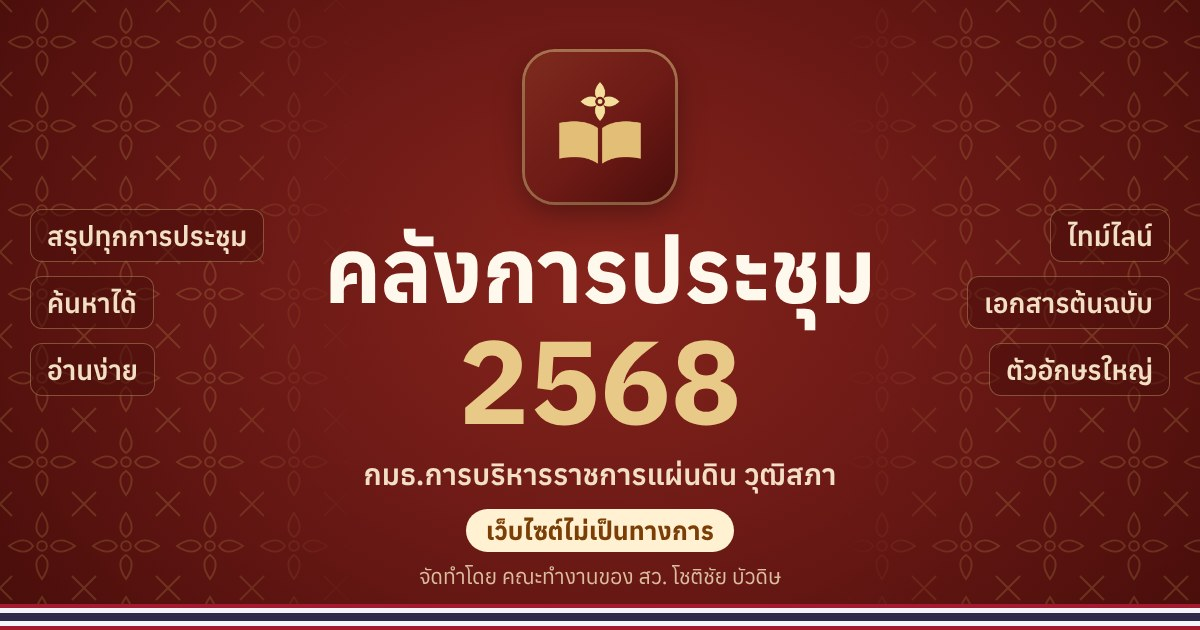
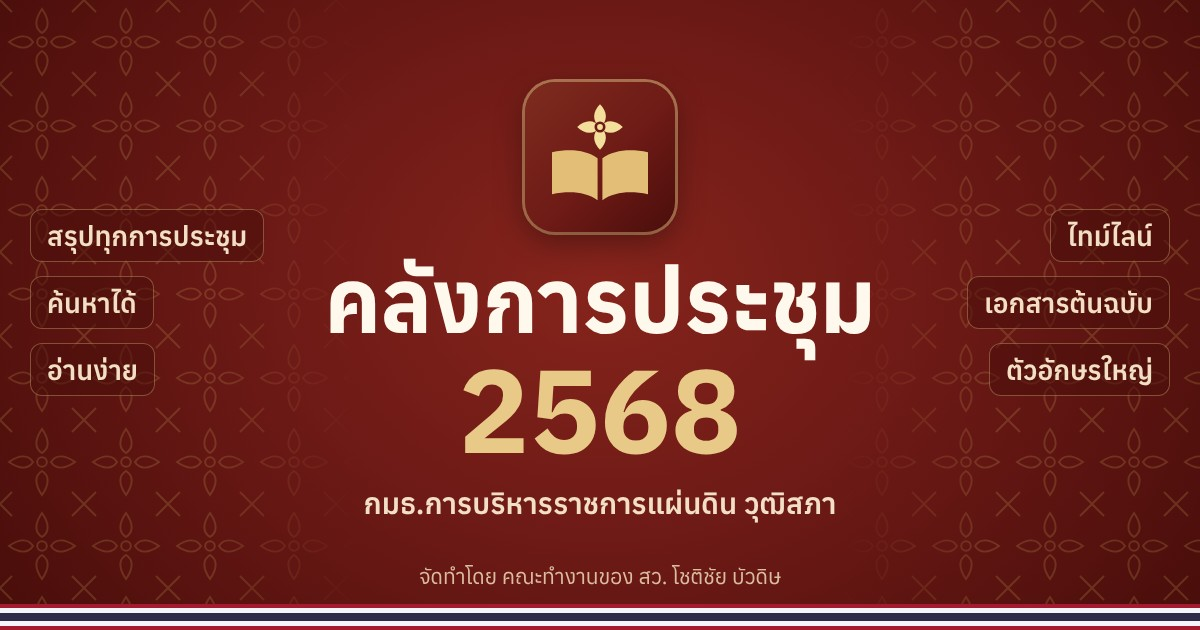
ภาพการ์ดแชร์ไม่มีป้าย "เว็บไซต์ไม่เป็นทางการ" (ข้อความยังอยู่ในคำอธิบายลิงก์และหน้าเว็บ) และเพิ่มโครงร่างระหว่างโหลดรายการ (skeleton loading)
Claude-Session: https://claude.ai/code/session_01CvQ3oQphdHGPik4UMzbU6Y

Changed region(s): [[0.2775, 0.0905, 0.74, 0.8746], [0.4625, 0.0603, 0.555, 0.0905]]

diff --git a/index.html b/index.html
@@ -794,6 +794,27 @@ footer .footer-credit b{color:#FFFFFF}
 </style>
 
 
+<!--SKEL-->
+<style id="skel-layer">
+.sk-wrap{display:grid;gap:16px;opacity:0;animation:sk-in .3s ease .35s forwards}
+.sk-card{background:var(--paper,#fff);border:1px solid var(--line,#e4d9c7);border-radius:18px;padding:18px;display:grid;gap:12px;
+  box-shadow:0 1px 2px rgba(60,20,10,.05),0 10px 26px -18px rgba(60,20,10,.18)}
+.sk-b{display:block;height:1.05em;border-radius:10px;background:var(--ink,#22170f);opacity:.08;animation:sk-pulse 1.3s ease-in-out .35s infinite alternate}
+.sk-b.h{height:2.2em;border-radius:12px}
+.sk-b.t{height:1.5em;width:82%}
+.sk-b.s{width:58%}
+.sk-b.bt{height:3.1em;border-radius:16px;width:100%;margin-top:4px}
+.sk-row{display:flex;gap:12px;align-items:center}
+.sk-row .sk-b.av{flex:none;width:3.2em;height:3.2em;border-radius:50%}
+.sk-row .sk-b{flex:1}
+.sk-sr{position:absolute;width:1px;height:1px;overflow:hidden;clip:rect(0 0 0 0);white-space:nowrap}
+@keyframes sk-in{to{opacity:1}}
+@keyframes sk-pulse{from{opacity:.06}to{opacity:.13}}
+@media (prefers-reduced-motion:reduce){.sk-wrap{animation:none;opacity:1}.sk-b{animation:none}}
+@media print{.sk-wrap{display:none}}
+img[loading="lazy"][src$=".jpg"],img[loading="lazy"][src*=".jpg?"],img.bgp{background-color:rgba(127,112,100,.16)}
+</style>
+<noscript><style>.sk-wrap{display:none}</style></noscript>
 </head>
 <body>
 <svg width="0" height="0" style="position:absolute" aria-hidden="true">
@@ -934,7 +955,7 @@ footer .footer-credit b{color:#FFFFFF}
   </div>
  </section>
 
- <section class="wrap feed" id="feed" aria-label="รายการการประชุม"></section>
+ <section class="wrap feed" id="feed" aria-label="รายการการประชุม"><div class="sk-wrap" aria-hidden="true"><div class="sk-card"><span class="sk-b h"></span><span class="sk-b t"></span><div class="sk-row"><span class="sk-b av"></span><span class="sk-b s"></span></div><span class="sk-b"></span><span class="sk-b"></span><span class="sk-b s"></span><span class="sk-b bt"></span></div><div class="sk-card"><span class="sk-b h"></span><span class="sk-b t"></span><div class="sk-row"><span class="sk-b av"></span><span class="sk-b s"></span></div><span class="sk-b"></span><span class="sk-b"></span><span class="sk-b s"></span><span class="sk-b bt"></span></div><div class="sk-card"><span class="sk-b h"></span><span class="sk-b t"></span><div class="sk-row"><span class="sk-b av"></span><span class="sk-b s"></span></div><span class="sk-b"></span><span class="sk-b"></span><span class="sk-b s"></span><span class="sk-b bt"></span></div></div><span class="sk-sr">กำลังโหลดรายการการประชุม</span></section>
 </main>
 
 <footer>

diff --git a/sub-central.html b/sub-central.html
@@ -794,6 +794,27 @@ footer .footer-credit b{color:#FFFFFF}
 </style>
 
 
+<!--SKEL-->
+<style id="skel-layer">
+.sk-wrap{display:grid;gap:16px;opacity:0;animation:sk-in .3s ease .35s forwards}
+.sk-card{background:var(--paper,#fff);border:1px solid var(--line,#e4d9c7);border-radius:18px;padding:18px;display:grid;gap:12px;
+  box-shadow:0 1px 2px rgba(60,20,10,.05),0 10px 26px -18px rgba(60,20,10,.18)}
+.sk-b{display:block;height:1.05em;border-radius:10px;background:var(--ink,#22170f);opacity:.08;animation:sk-pulse 1.3s ease-in-out .35s infinite alternate}
+.sk-b.h{height:2.2em;border-radius:12px}
+.sk-b.t{height:1.5em;width:82%}
+.sk-b.s{width:58%}
+.sk-b.bt{height:3.1em;border-radius:16px;width:100%;margin-top:4px}
+.sk-row{display:flex;gap:12px;align-items:center}
+.sk-row .sk-b.av{flex:none;width:3.2em;height:3.2em;border-radius:50%}
+.sk-row .sk-b{flex:1}
+.sk-sr{position:absolute;width:1px;height:1px;overflow:hidden;clip:rect(0 0 0 0);white-space:nowrap}
+@keyframes sk-in{to{opacity:1}}
+@keyframes sk-pulse{from{opacity:.06}to{opacity:.13}}
+@media (prefers-reduced-motion:reduce){.sk-wrap{animation:none;opacity:1}.sk-b{animation:none}}
+@media print{.sk-wrap{display:none}}
+img[loading="lazy"][src$=".jpg"],img[loading="lazy"][src*=".jpg?"],img.bgp{background-color:rgba(127,112,100,.16)}
+</style>
+<noscript><style>.sk-wrap{display:none}</style></noscript>
 </head>
 <body>
 <svg width="0" height="0" style="position:absolute" aria-hidden="true">
@@ -934,7 +955,7 @@ footer .footer-credit b{color:#FFFFFF}
   </div>
  </section>
 
- <section class="wrap feed" id="feed" aria-label="รายการการประชุม"></section>
+ <section class="wrap feed" id="feed" aria-label="รายการการประชุม"><div class="sk-wrap" aria-hidden="true"><div class="sk-card"><span class="sk-b h"></span><span class="sk-b t"></span><div class="sk-row"><span class="sk-b av"></span><span class="sk-b s"></span></div><span class="sk-b"></span><span class="sk-b"></span><span class="sk-b s"></span><span class="sk-b bt"></span></div><div class="sk-card"><span class="sk-b h"></span><span class="sk-b t"></span><div class="sk-row"><span class="sk-b av"></span><span class="sk-b s"></span></div><span class="sk-b"></span><span class="sk-b"></span><span class="sk-b s"></span><span class="sk-b bt"></span></div><div class="sk-card"><span class="sk-b h"></span><span class="sk-b t"></span><div class="sk-row"><span class="sk-b av"></span><span class="sk-b s"></span></div><span class="sk-b"></span><span class="sk-b"></span><span class="sk-b s"></span><span class="sk-b bt"></span></div></div><span class="sk-sr">กำลังโหลดรายการการประชุม</span></section>
 </main>
 
 <footer>

diff --git a/sub-dev-old.html b/sub-dev-old.html
@@ -794,6 +794,27 @@ footer .footer-credit b{color:#FFFFFF}
 </style>
 
 
+<!--SKEL-->
+<style id="skel-layer">
+.sk-wrap{display:grid;gap:16px;opacity:0;animation:sk-in .3s ease .35s forwards}
+.sk-card{background:var(--paper,#fff);border:1px solid var(--line,#e4d9c7);border-radius:18px;padding:18px;display:grid;gap:12px;
+  box-shadow:0 1px 2px rgba(60,20,10,.05),0 10px 26px -18px rgba(60,20,10,.18)}
+.sk-b{display:block;height:1.05em;border-radius:10px;background:var(--ink,#22170f);opacity:.08;animation:sk-pulse 1.3s ease-in-out .35s infinite alternate}
+.sk-b.h{height:2.2em;border-radius:12px}
+.sk-b.t{height:1.5em;width:82%}
+.sk-b.s{width:58%}
+.sk-b.bt{height:3.1em;border-radius:16px;width:100%;margin-top:4px}
+.sk-row{display:flex;gap:12px;align-items:center}
+.sk-row .sk-b.av{flex:none;width:3.2em;height:3.2em;border-radius:50%}
+.sk-row .sk-b{flex:1}
+.sk-sr{position:absolute;width:1px;height:1px;overflow:hidden;clip:rect(0 0 0 0);white-space:nowrap}
+@keyframes sk-in{to{opacity:1}}
+@keyframes sk-pulse{from{opacity:.06}to{opacity:.13}}
+@media (prefers-reduced-motion:reduce){.sk-wrap{animation:none;opacity:1}.sk-b{animation:none}}
+@media print{.sk-wrap{display:none}}
+img[loading="lazy"][src$=".jpg"],img[loading="lazy"][src*=".jpg?"],img.bgp{background-color:rgba(127,112,100,.16)}
+</style>
+<noscript><style>.sk-wrap{display:none}</style></noscript>
 </head>
 <body>
 <svg width="0" height="0" style="position:absolute" aria-hidden="true">
@@ -934,7 +955,7 @@ footer .footer-credit b{color:#FFFFFF}
   </div>
  </section>
 
- <section class="wrap feed" id="feed" aria-label="รายการการประชุม"></section>
+ <section class="wrap feed" id="feed" aria-label="รายการการประชุม"><div class="sk-wrap" aria-hidden="true"><div class="sk-card"><span class="sk-b h"></span><span class="sk-b t"></span><div class="sk-row"><span class="sk-b av"></span><span class="sk-b s"></span></div><span class="sk-b"></span><span class="sk-b"></span><span class="sk-b s"></span><span class="sk-b bt"></span></div><div class="sk-card"><span class="sk-b h"></span><span class="sk-b t"></span><div class="sk-row"><span class="sk-b av"></span><span class="sk-b s"></span></div><span class="sk-b"></span><span class="sk-b"></span><span class="sk-b s"></span><span class="sk-b bt"></span></div><div class="sk-card"><span class="sk-b h"></span><span class="sk-b t"></span><div class="sk-row"><span class="sk-b av"></span><span class="sk-b s"></span></div><span class="sk-b"></span><span class="sk-b"></span><span class="sk-b s"></span><span class="sk-b bt"></span></div></div><span class="sk-sr">กำลังโหลดรายการการประชุม</span></section>
 </main>
 
 <footer>

diff --git a/sub-disaster-old.html b/sub-disaster-old.html
@@ -794,6 +794,27 @@ footer .footer-credit b{color:#FFFFFF}
 </style>
 
 
+<!--SKEL-->
+<style id="skel-layer">
+.sk-wrap{display:grid;gap:16px;opacity:0;animation:sk-in .3s ease .35s forwards}
+.sk-card{background:var(--paper,#fff);border:1px solid var(--line,#e4d9c7);border-radius:18px;padding:18px;display:grid;gap:12px;
+  box-shadow:0 1px 2px rgba(60,20,10,.05),0 10px 26px -18px rgba(60,20,10,.18)}
+.sk-b{display:block;height:1.05em;border-radius:10px;background:var(--ink,#22170f);opacity:.08;animation:sk-pulse 1.3s ease-in-out .35s infinite alternate}
+.sk-b.h{height:2.2em;border-radius:12px}
+.sk-b.t{height:1.5em;width:82%}
+.sk-b.s{width:58%}
+.sk-b.bt{height:3.1em;border-radius:16px;width:100%;margin-top:4px}
+.sk-row{display:flex;gap:12px;align-items:center}
+.sk-row .sk-b.av{flex:none;width:3.2em;height:3.2em;border-radius:50%}
+.sk-row .sk-b{flex:1}
+.sk-sr{position:absolute;width:1px;height:1px;overflow:hidden;clip:rect(0 0 0 0);white-space:nowrap}
+@keyframes sk-in{to{opacity:1}}
+@keyframes sk-pulse{from{opacity:.06}to{opacity:.13}}
+@media (prefers-reduced-motion:reduce){.sk-wrap{animation:none;opacity:1}.sk-b{animation:none}}
+@media print{.sk-wrap{display:none}}
+img[loading="lazy"][src$=".jpg"],img[loading="lazy"][src*=".jpg?"],img.bgp{background-color:rgba(127,112,100,.16)}
+</style>
+<noscript><style>.sk-wrap{display:none}</style></noscript>
 </head>
 <body>
 <svg width="0" height="0" style="position:absolute" aria-hidden="true">
@@ -934,7 +955,7 @@ footer .footer-credit b{color:#FFFFFF}
   </div>
  </section>
 
- <section class="wrap feed" id="feed" aria-label="รายการการประชุม"></section>
+ <section class="wrap feed" id="feed" aria-label="รายการการประชุม"><div class="sk-wrap" aria-hidden="true"><div class="sk-card"><span class="sk-b h"></span><span class="sk-b t"></span><div class="sk-row"><span class="sk-b av"></span><span class="sk-b s"></span></div><span class="sk-b"></span><span class="sk-b"></span><span class="sk-b s"></span><span class="sk-b bt"></span></div><div class="sk-card"><span class="sk-b h"></span><span class="sk-b t"></span><div class="sk-row"><span class="sk-b av"></span><span class="sk-b s"></span></div><span class="sk-b"></span><span class="sk-b"></span><span class="sk-b s"></span><span class="sk-b bt"></span></div><div class="sk-card"><span class="sk-b h"></span><span class="sk-b t"></span><div class="sk-row"><span class="sk-b av"></span><span class="sk-b s"></span></div><span class="sk-b"></span><span class="sk-b"></span><span class="sk-b s"></span><span class="sk-b bt"></span></div></div><span class="sk-sr">กำลังโหลดรายการการประชุม</span></section>
 </main>
 
 <footer>
